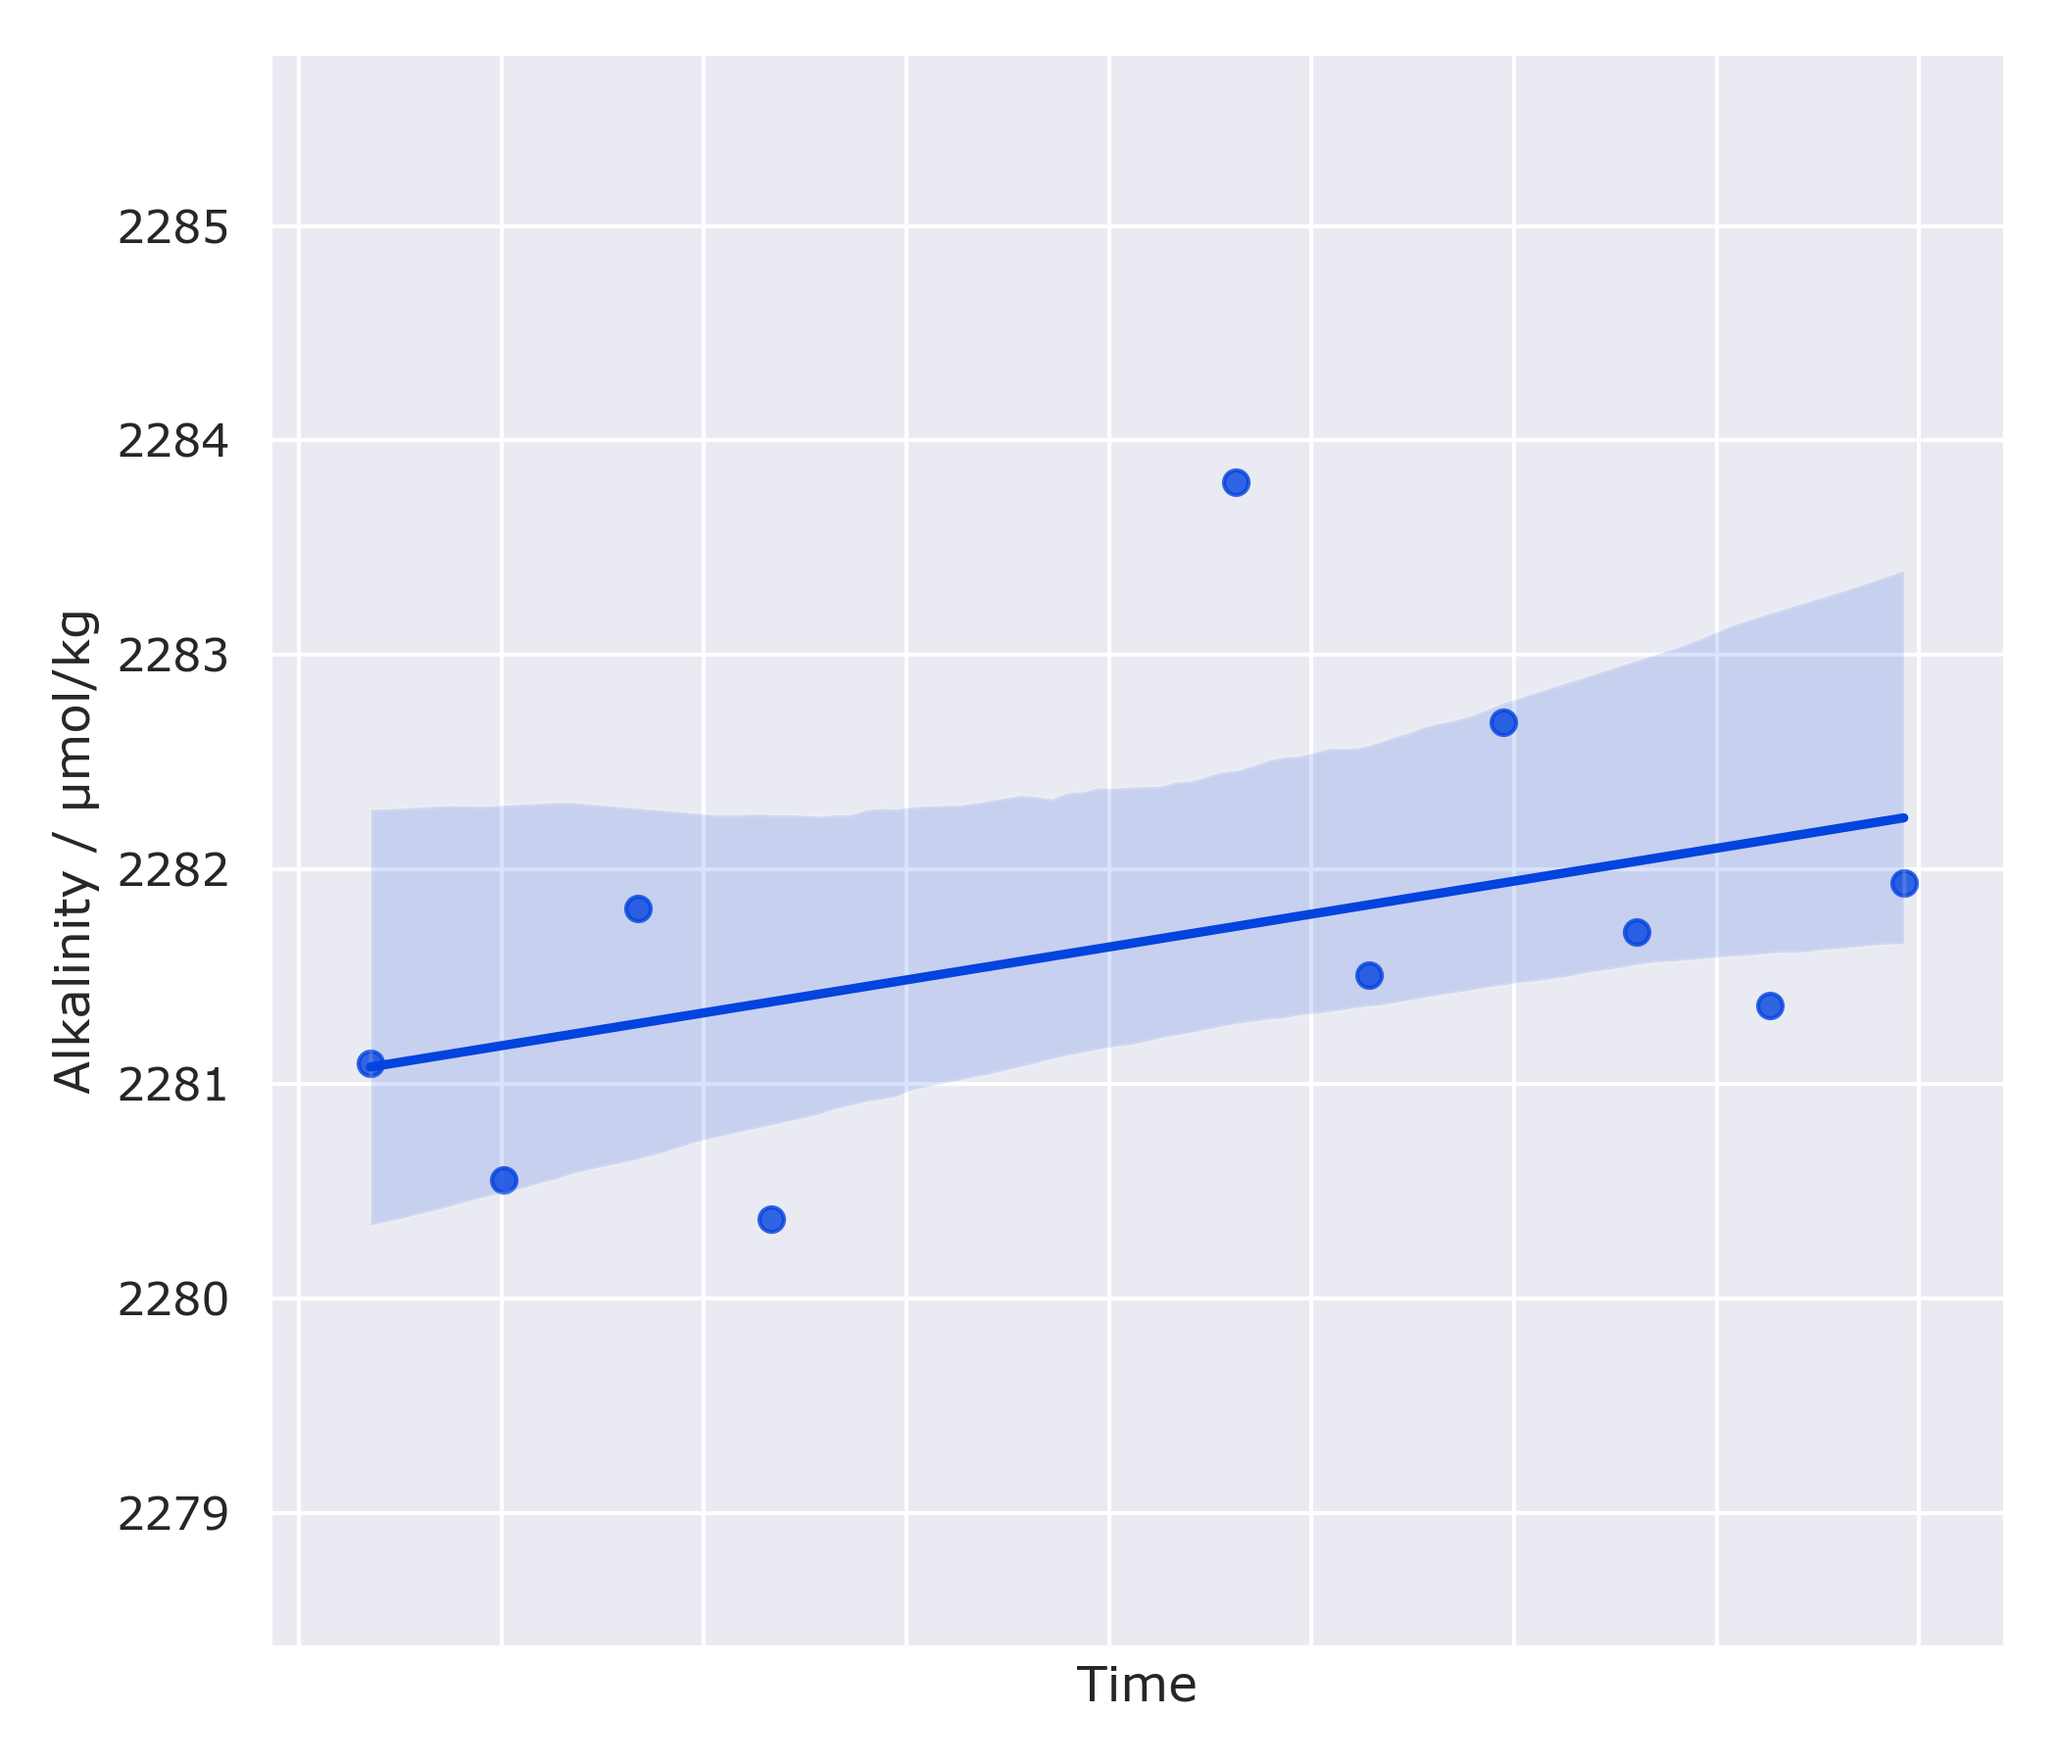
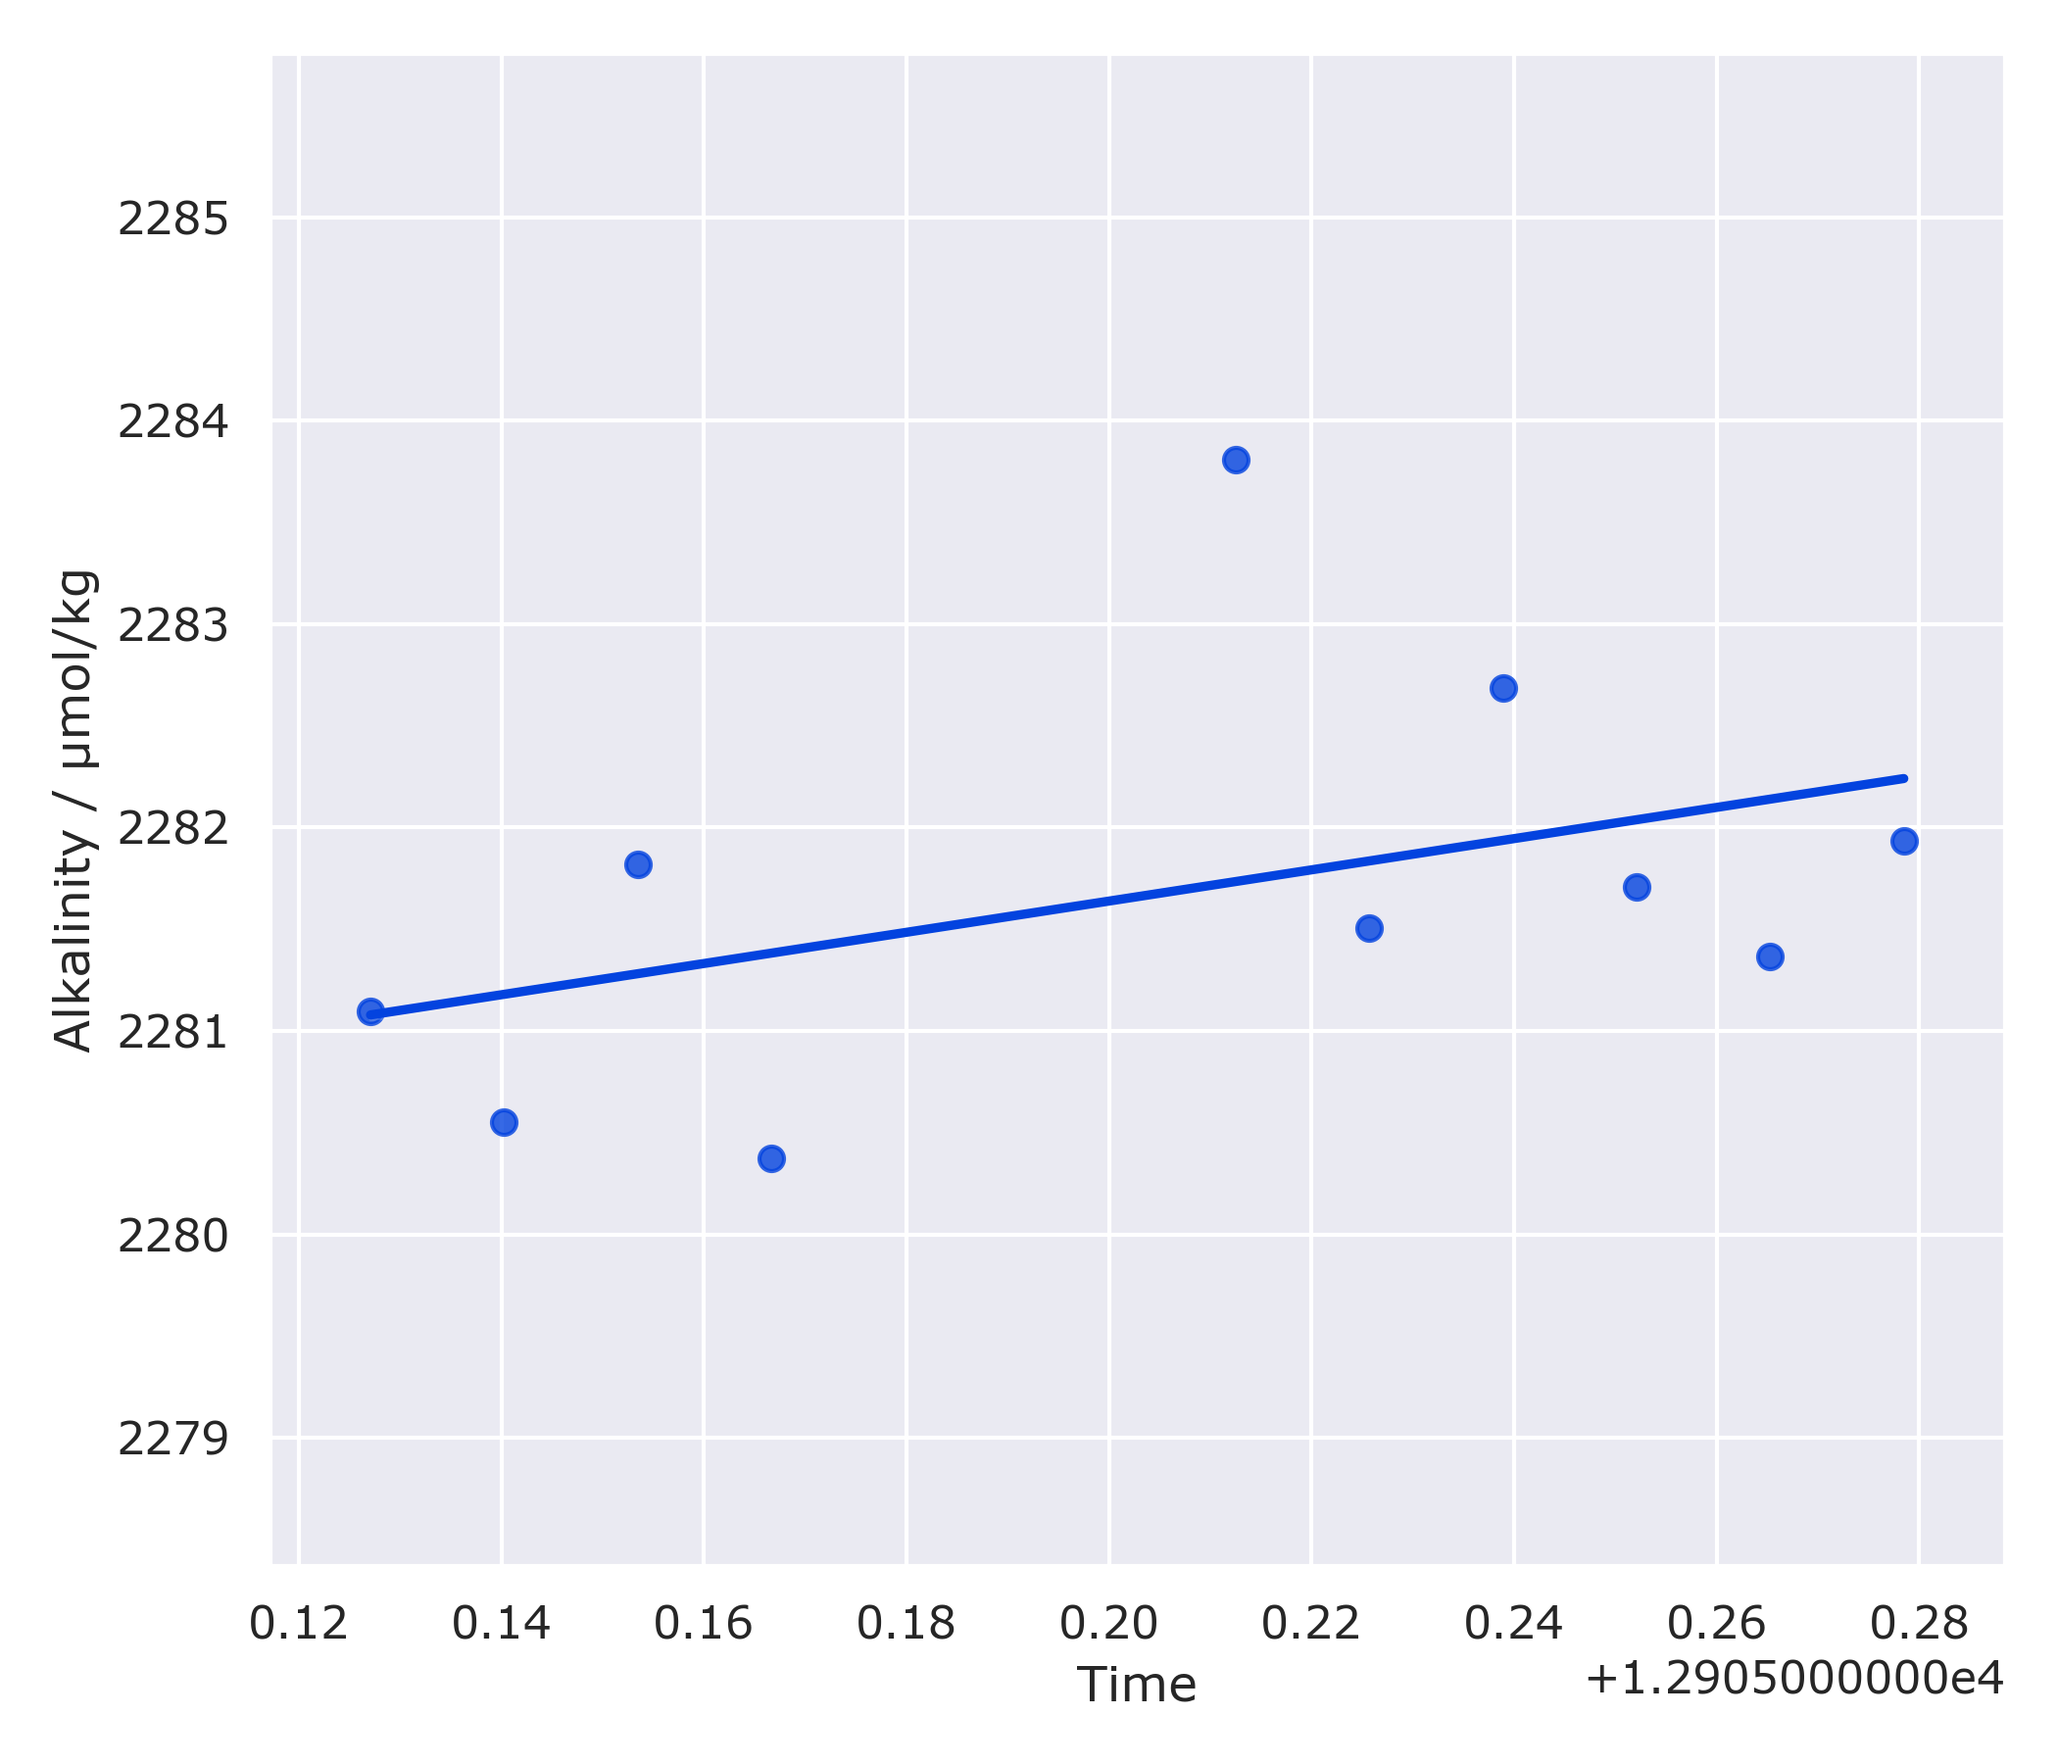
fixed date error for VINDTA analysis of 05/10/2021

diff --git a/airica/storage_test_process.py b/airica/storage_test_process.py
@@ -1,6 +1,8 @@
 import pandas as pd
 from fx_airica import process_airica
 from scipy import stats
+import seaborn as sns
+from matplotlib import pyplot as plt
 
 # Import lab file
 db = pd.read_excel('./data/LD_storage_test/AIRICA_storage_test.xlsx',
@@ -17,12 +19,13 @@ results = process_airica(2009.48,
                          './data/LD_storage_test/results_storage_test.csv'
                     )
 
+# === STATISTICS
 # Statistics on replicates
 L = results['name'].str.startswith(('R', 'U'))
 replicates = results[L]
 
 # Print standard error of the mean
-variable = 'TCO2_4'
+variable = 'TCO2_3'
 SE = stats.mstats.sem(replicates[variable], axis=None, ddof=0)
 print('Standard error of measurement for all replicates = {}'.format(SE))
 
@@ -38,3 +41,83 @@ print('Standard error of measurement for rinsed replicates = {}'.format(SE_R))
 SE_U = stats.mstats.sem(unrinsed[variable], axis=None, ddof=0)
 print('Standard error of measurement for unrinsed replicates = {}'.format(SE_U))
 
+# === PLOT 4 AREAS
+# Prepare figure
+sns.set_style('darkgrid')
+sns.set_context('paper', font_scale=1)
+sns.set(font='Verdana', font_scale=1)
+
+# Create figure
+fig, ax = plt.subplots(dpi=300, figsize=(7, 6))
+
+# Scatter rinsed samples in dark blue
+L = results['name'].str.startswith('R')
+sns.scatterplot(y='TCO2_4',
+                 x='datenum',
+                 data=results[L],
+                 color='xkcd:blue',
+                 label='Rinsed vials',
+                 ci=False,
+                 ax=ax
+                )
+
+# Scatter unrinsed samples in light blue
+L = results['name'].str.startswith('U')
+sns.scatterplot(y='TCO2_4',
+                 x='datenum',
+                 data=results[L],
+                 color='xkcd:fuchsia',
+                 label='Unrinsed vials',
+                 ci=False,
+                 ax=ax
+                )
+
+# Improve figure
+ax.set_ylabel('$DIC_{4 areas}$ / μmol/kg')
+ax.set_xlabel('Time')
+
+plt.tight_layout()
+
+# Save plot
+plt.savefig('./figures/storage_test_DIC_4areas.png')
+
+# === PLOT 3 AREAS
+# Prepare figure
+sns.set_style('darkgrid')
+sns.set_context('paper', font_scale=1)
+sns.set(font='Verdana', font_scale=1)
+
+# Create figure
+fig, ax = plt.subplots(dpi=300, figsize=(7, 6))
+
+# Scatter rinsed samples in dark blue
+L = results['name'].str.startswith('R')
+sns.scatterplot(y='TCO2_3',
+                 x='datenum',
+                 data=results[L],
+                 color='xkcd:blue',
+                 label='Rinsed vials',
+                 ci=False,
+                 ax=ax
+                )
+
+# Scatter unrinsed samples in light blue
+L = results['name'].str.startswith('U')
+sns.scatterplot(y='TCO2_3',
+                 x='datenum',
+                 data=results[L],
+                 color='xkcd:fuchsia',
+                 label='Unrinsed vials', 
+                 ci=False,
+                 ax=ax
+                )
+
+# Improve figure
+plt.legend()
+ax.set_ylabel('$DIC_{3 areas}$ / μmol/kg')
+ax.set_xlabel('Time')
+
+plt.tight_layout()
+
+# Save plot
+plt.savefig('./figures/storage_test_DIC_3areas.png')

diff --git a/vindta/storage_test_process.py b/vindta/storage_test_process.py
@@ -2,6 +2,7 @@ import numpy as np, pandas as pd
 from matplotlib import pyplot as plt
 import seaborn as sns
 import koolstof as ks, calkulate as calk
+from pandas.tseries.offsets import DateOffset
 from scipy import stats
 
 # Import logfile and dbs file
@@ -26,6 +27,11 @@ for meta in [
     "total_ammonia",
 ]:
     dbs[meta] = np.nan
+
+# Modify date error for 06/10/2021
+L = (dbs['analysis_datetime'].dt.day == 2) & (dbs['analysis_datetime'].dt.month == 5) & (dbs['analysis_datetime'].dt.year == 2005)
+dbs.loc[L, 'analysis_datetime'] = dbs['analysis_datetime'] + DateOffset(hours=10)
+dbs.loc[L, 'analysis_datetime'] = dbs['analysis_datetime'].apply(lambda dt: dt.replace(year=2021, month=10, day=6))
 
 # Assign metadata values for CRMs
 prefixes = ["CRM-189-"]
@@ -93,6 +99,7 @@ sns.regplot(y='alkalinity',
                  x='analysis_datenum',
                  data=dbs[L],
                  color='xkcd:blue',
+                 ci=False,
                  ax=ax
                 )
 
@@ -104,12 +111,12 @@ xmax = dbs['analysis_datenum'][L].max() + 0.01
 plt.xlim([xmin, xmax])
 plt.ylim([ymin, ymax])
 
-plt.tick_params(
-    axis='x',          # changes apply to the x-axis
-    which='both',      # both major and minor ticks are affected
-    bottom=False,      # ticks along the bottom edge are off
-    top=False,         # ticks along the top edge are off
-    labelbottom=False) # labels along the bottom edge are off
+# plt.tick_params(
+#     axis='x',          # changes apply to the x-axis
+#     which='both',      # both major and minor ticks are affected
+#     bottom=False,      # ticks along the bottom edge are off
+#     top=False,         # ticks along the top edge are off
+#     labelbottom=False) # labels along the bottom edge are off
 
 ax.set_ylabel('Alkalinity / μmol/kg')
 ax.set_xlabel('Time')
